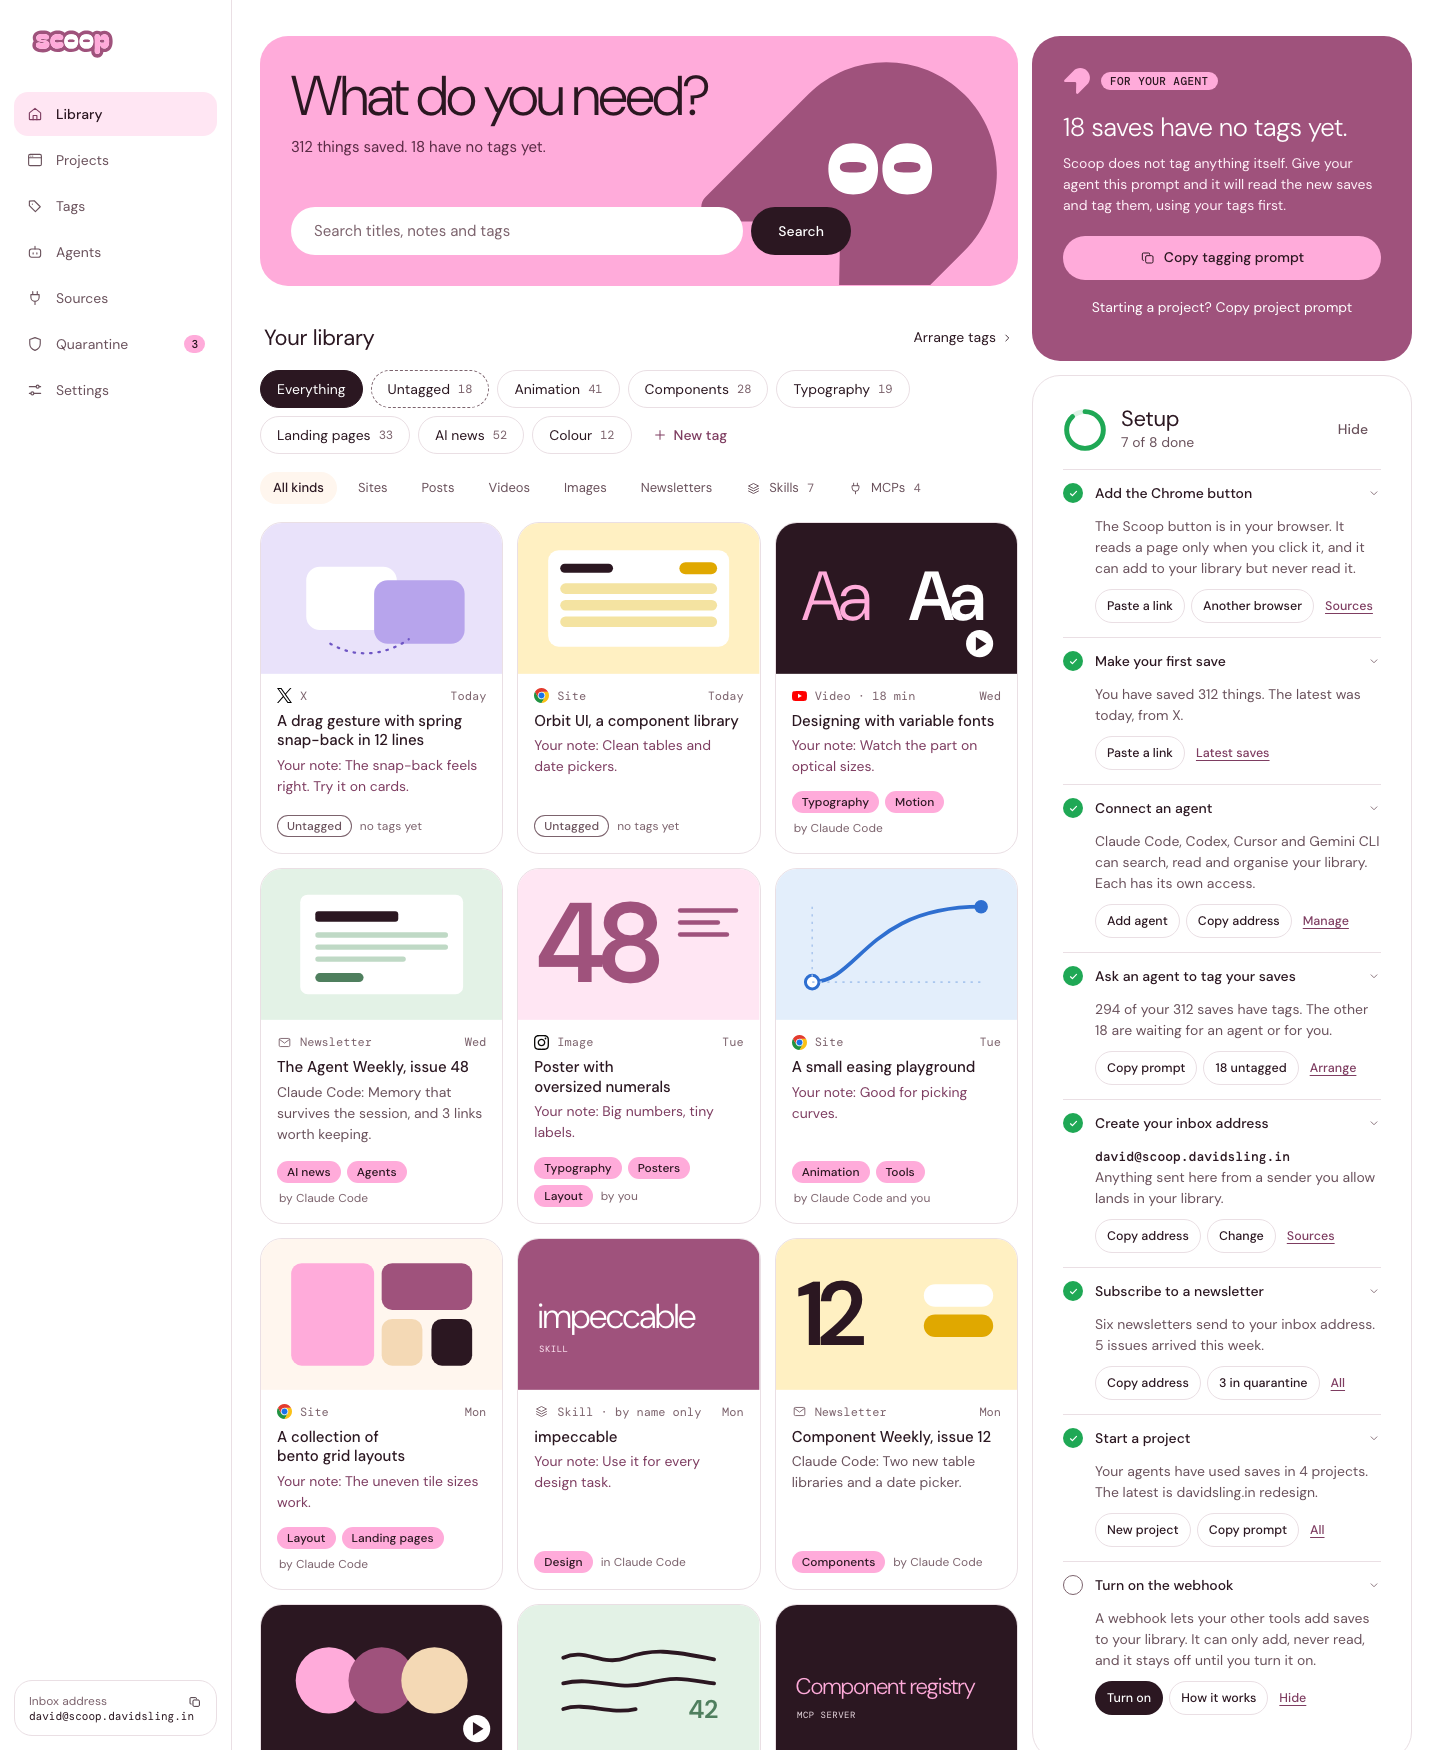
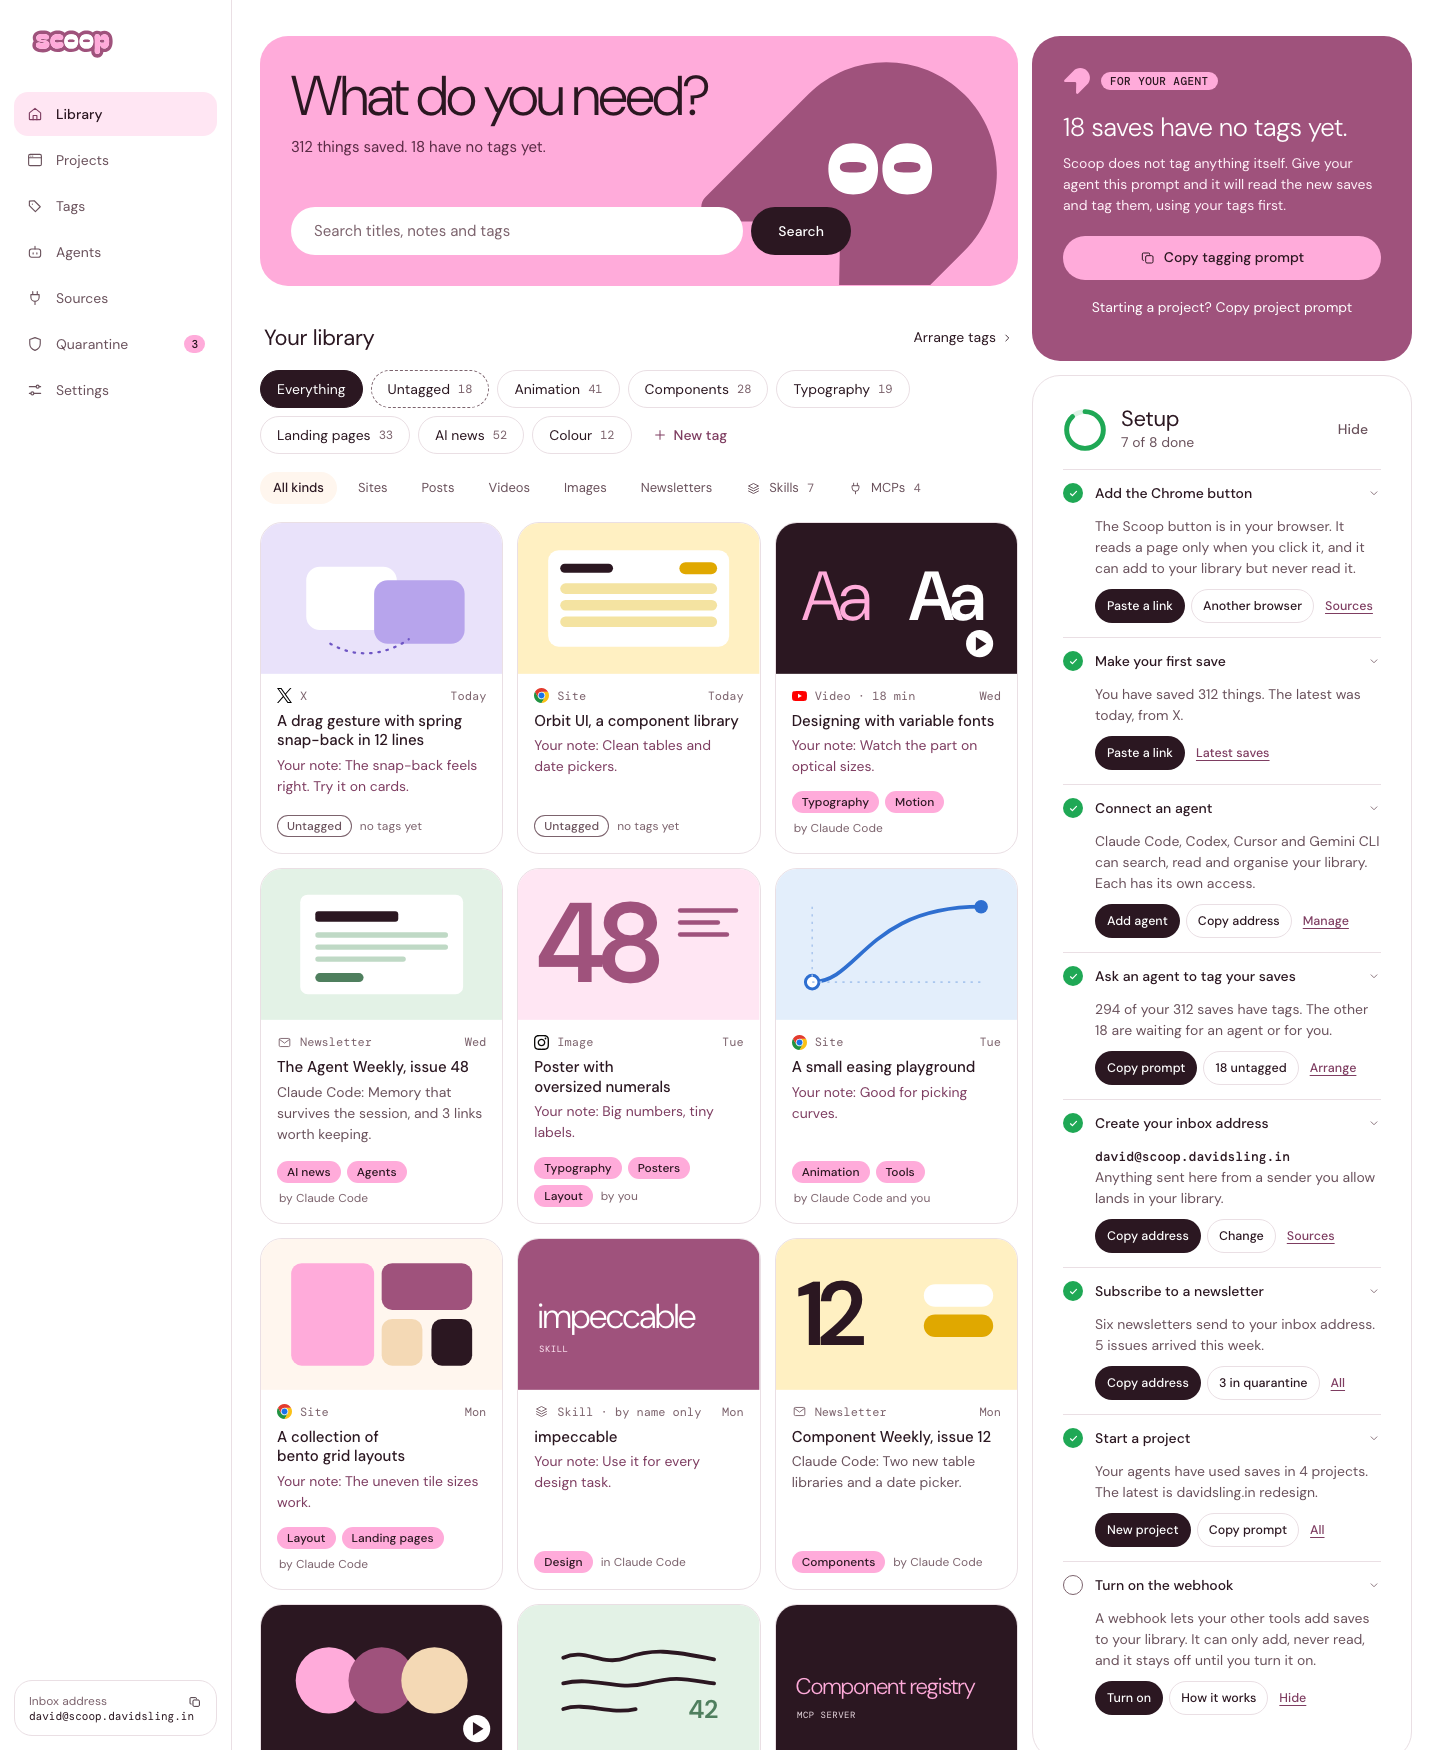
feat: give every open setup row a primary action

diff --git a/mockups/dashboard.html b/mockups/dashboard.html
@@ -129,13 +129,13 @@
           <button class="btn text" type="button">Hide</button>
         </div>
         <ul class="su">
-          <li class="ok"><details><summary><span class="tk"><svg class="i"><use href="#i-tick"/></svg></span><span class="lb">Add the Chrome button</span><svg class="i chev"><use href="#i-chev"/></svg></summary><div class="more"><p>The Scoop button is in your browser. It reads a page only when you click it, and it can add to your library but never read it.</p><div class="acts"><button class="btn outline sm" type="button">Paste a link</button><a class="btn outline sm" href="sources.html">Another browser</a><a class="btn text sm" href="sources.html">Sources</a></div></div></details></li>
-          <li class="ok"><details><summary><span class="tk"><svg class="i"><use href="#i-tick"/></svg></span><span class="lb">Make your first save</span><svg class="i chev"><use href="#i-chev"/></svg></summary><div class="more"><p>You have saved 312 things. The latest was today, from X.</p><div class="acts"><button class="btn outline sm" type="button">Paste a link</button><a class="btn text sm" href="#">Latest saves</a></div></div></details></li>
-          <li class="ok"><details><summary><span class="tk"><svg class="i"><use href="#i-tick"/></svg></span><span class="lb">Connect an agent</span><svg class="i chev"><use href="#i-chev"/></svg></summary><div class="more"><p>Claude Code, Codex, Cursor and Gemini CLI can search, read and organise your library. Each has its own access.</p><div class="acts"><a class="btn outline sm" href="agents.html">Add agent</a><button class="btn outline sm" type="button">Copy address</button><a class="btn text sm" href="agents.html">Manage</a></div></div></details></li>
-          <li class="ok"><details><summary><span class="tk"><svg class="i"><use href="#i-tick"/></svg></span><span class="lb">Ask an agent to tag your saves</span><svg class="i chev"><use href="#i-chev"/></svg></summary><div class="more"><p>294 of your 312 saves have tags. The other 18 are waiting for an agent or for you.</p><div class="acts"><button class="btn outline sm" type="button">Copy prompt</button><a class="btn outline sm" href="#">18 untagged</a><a class="btn text sm" href="tags.html">Arrange</a></div></div></details></li>
-          <li class="ok"><details><summary><span class="tk"><svg class="i"><use href="#i-tick"/></svg></span><span class="lb">Create your inbox address</span><svg class="i chev"><use href="#i-chev"/></svg></summary><div class="more"><p><span class="mono">david@scoop.davidsling.in</span><br>Anything sent here from a sender you allow lands in your library.</p><div class="acts"><button class="btn outline sm" type="button">Copy address</button><a class="btn outline sm" href="settings.html">Change</a><a class="btn text sm" href="sources.html">Sources</a></div></div></details></li>
-          <li class="ok"><details><summary><span class="tk"><svg class="i"><use href="#i-tick"/></svg></span><span class="lb">Subscribe to a newsletter</span><svg class="i chev"><use href="#i-chev"/></svg></summary><div class="more"><p>Six newsletters send to your inbox address. 5 issues arrived this week.</p><div class="acts"><button class="btn outline sm" type="button">Copy address</button><a class="btn outline sm" href="sources.html#quarantine">3 in quarantine</a><a class="btn text sm" href="sources.html">All</a></div></div></details></li>
-          <li class="ok"><details><summary><span class="tk"><svg class="i"><use href="#i-tick"/></svg></span><span class="lb">Start a project</span><svg class="i chev"><use href="#i-chev"/></svg></summary><div class="more"><p>Your agents have used saves in 4 projects. The latest is davidsling.in redesign.</p><div class="acts"><a class="btn outline sm" href="projects.html">New project</a><button class="btn outline sm" type="button">Copy prompt</button><a class="btn text sm" href="projects.html">All</a></div></div></details></li>
+          <li class="ok"><details><summary><span class="tk"><svg class="i"><use href="#i-tick"/></svg></span><span class="lb">Add the Chrome button</span><svg class="i chev"><use href="#i-chev"/></svg></summary><div class="more"><p>The Scoop button is in your browser. It reads a page only when you click it, and it can add to your library but never read it.</p><div class="acts"><button class="btn solid sm" type="button">Paste a link</button><a class="btn outline sm" href="sources.html">Another browser</a><a class="btn text sm" href="sources.html">Sources</a></div></div></details></li>
+          <li class="ok"><details><summary><span class="tk"><svg class="i"><use href="#i-tick"/></svg></span><span class="lb">Make your first save</span><svg class="i chev"><use href="#i-chev"/></svg></summary><div class="more"><p>You have saved 312 things. The latest was today, from X.</p><div class="acts"><button class="btn solid sm" type="button">Paste a link</button><a class="btn text sm" href="#">Latest saves</a></div></div></details></li>
+          <li class="ok"><details><summary><span class="tk"><svg class="i"><use href="#i-tick"/></svg></span><span class="lb">Connect an agent</span><svg class="i chev"><use href="#i-chev"/></svg></summary><div class="more"><p>Claude Code, Codex, Cursor and Gemini CLI can search, read and organise your library. Each has its own access.</p><div class="acts"><a class="btn solid sm" href="agents.html">Add agent</a><button class="btn outline sm" type="button">Copy address</button><a class="btn text sm" href="agents.html">Manage</a></div></div></details></li>
+          <li class="ok"><details><summary><span class="tk"><svg class="i"><use href="#i-tick"/></svg></span><span class="lb">Ask an agent to tag your saves</span><svg class="i chev"><use href="#i-chev"/></svg></summary><div class="more"><p>294 of your 312 saves have tags. The other 18 are waiting for an agent or for you.</p><div class="acts"><button class="btn solid sm" type="button">Copy prompt</button><a class="btn outline sm" href="#">18 untagged</a><a class="btn text sm" href="tags.html">Arrange</a></div></div></details></li>
+          <li class="ok"><details><summary><span class="tk"><svg class="i"><use href="#i-tick"/></svg></span><span class="lb">Create your inbox address</span><svg class="i chev"><use href="#i-chev"/></svg></summary><div class="more"><p><span class="mono">david@scoop.davidsling.in</span><br>Anything sent here from a sender you allow lands in your library.</p><div class="acts"><button class="btn solid sm" type="button">Copy address</button><a class="btn outline sm" href="settings.html">Change</a><a class="btn text sm" href="sources.html">Sources</a></div></div></details></li>
+          <li class="ok"><details><summary><span class="tk"><svg class="i"><use href="#i-tick"/></svg></span><span class="lb">Subscribe to a newsletter</span><svg class="i chev"><use href="#i-chev"/></svg></summary><div class="more"><p>Six newsletters send to your inbox address. 5 issues arrived this week.</p><div class="acts"><button class="btn solid sm" type="button">Copy address</button><a class="btn outline sm" href="sources.html#quarantine">3 in quarantine</a><a class="btn text sm" href="sources.html">All</a></div></div></details></li>
+          <li class="ok"><details><summary><span class="tk"><svg class="i"><use href="#i-tick"/></svg></span><span class="lb">Start a project</span><svg class="i chev"><use href="#i-chev"/></svg></summary><div class="more"><p>Your agents have used saves in 4 projects. The latest is davidsling.in redesign.</p><div class="acts"><a class="btn solid sm" href="projects.html">New project</a><button class="btn outline sm" type="button">Copy prompt</button><a class="btn text sm" href="projects.html">All</a></div></div></details></li>
           <li class="todo"><details open><summary><span class="tk"></span><span class="lb">Turn on the webhook</span><svg class="i chev"><use href="#i-chev"/></svg></summary><div class="more"><p>A webhook lets your other tools add saves to your library. It can only add, never read, and it stays off until you turn it on.</p><div class="acts"><a class="btn solid sm" href="sources.html">Turn on</a><a class="btn outline sm" href="sources.html">How it works</a><button class="btn text sm" type="button">Hide</button></div></div></details></li>
         </ul>
       </section>
